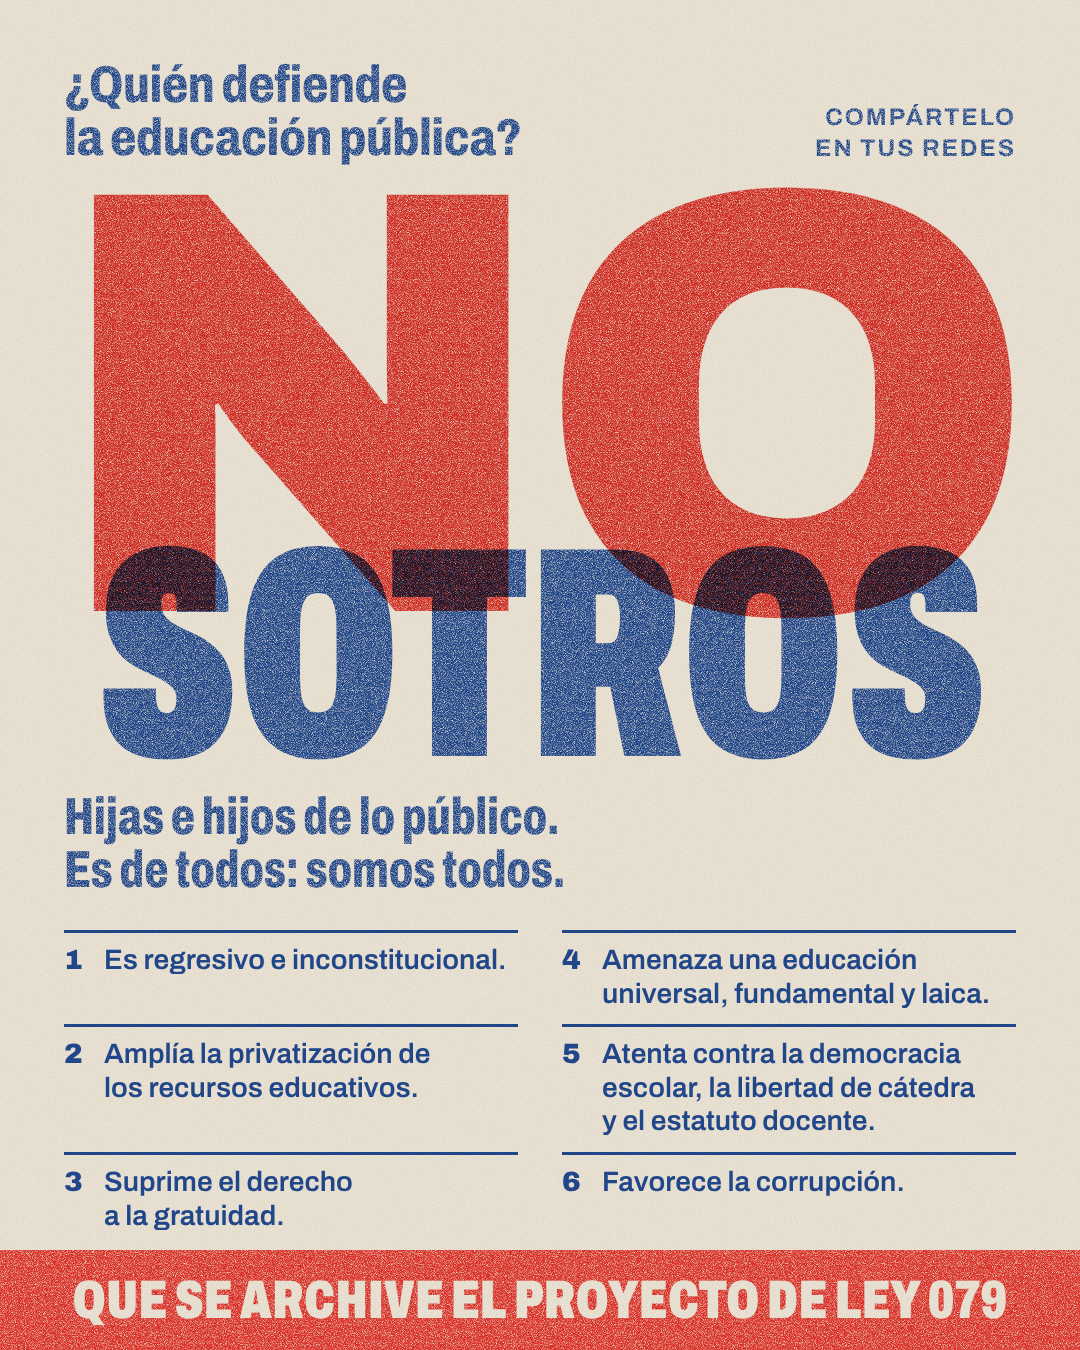
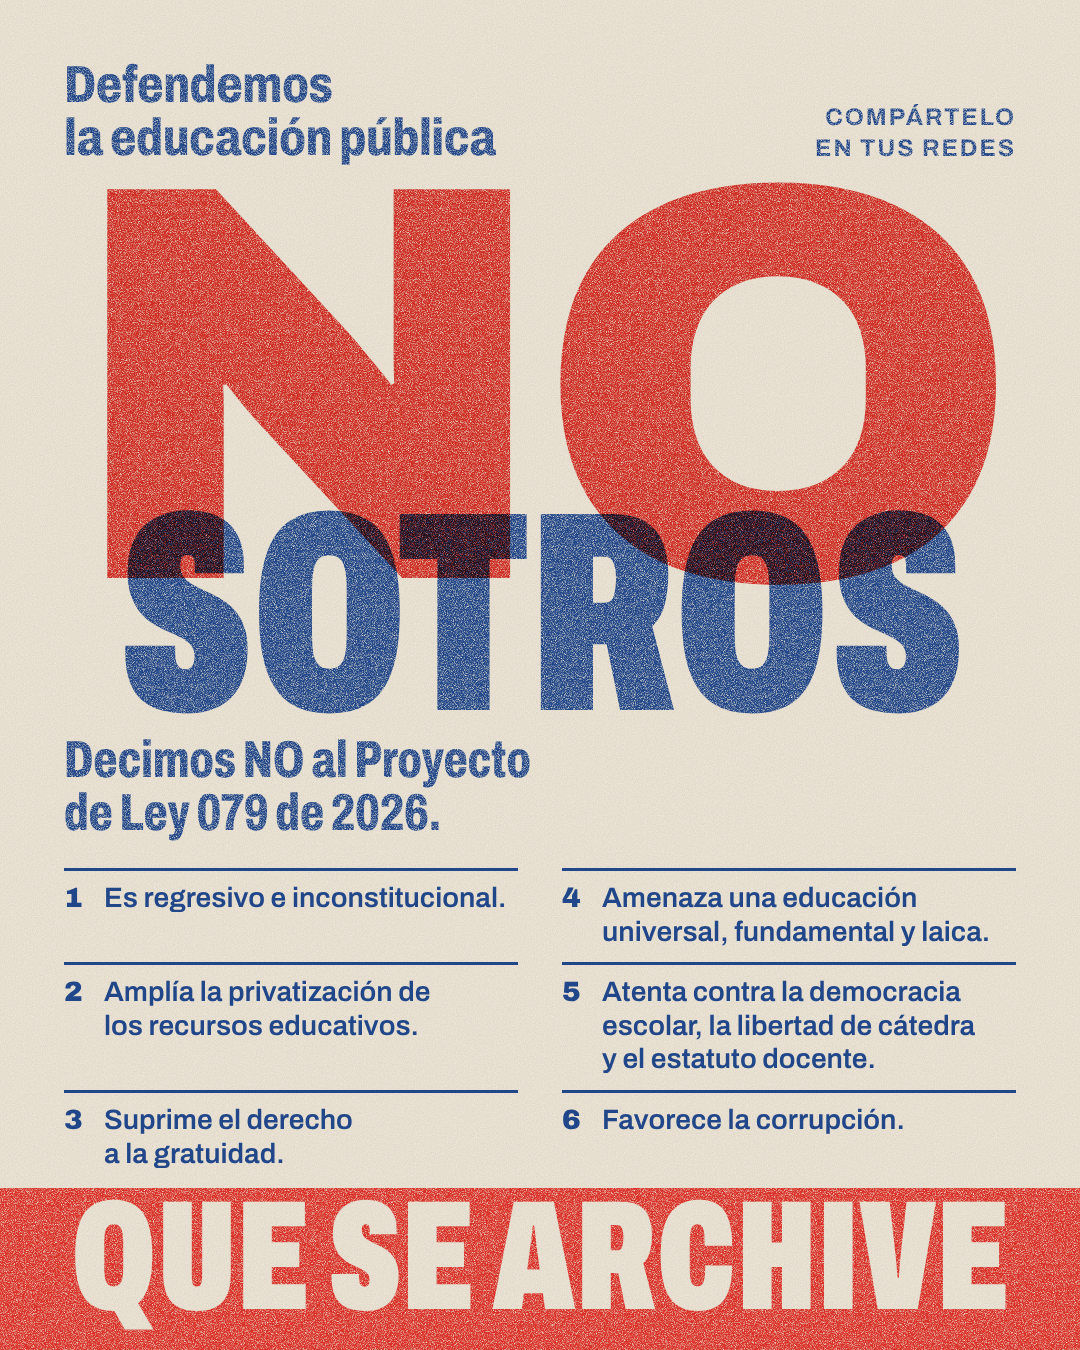
Variante NOsotros: nuevo texto superior, «Decimos NO al PL 079 de 2026» y pie «Que se archive» en grande
Claude-Session: https://claude.ai/code/session_0157Qa5e6iRtCtsbXHc6oRBj

diff --git a/pl079/v2-nosotros.html b/pl079/v2-nosotros.html
@@ -41,16 +41,16 @@
     position:absolute;left:0;width:1080px;text-align:center;white-space:nowrap;
     font-weight:900;text-transform:uppercase;line-height:1;
   }
-  .no {top:104px;font-size:605px;font-stretch:100%;letter-spacing:-.03em;transform:translate(-5px,3px)}
-  .sotros{top:506px;font-size:300px;font-stretch:62%;letter-spacing:-.005em}
+  .no {top:104px;font-size:565px;font-stretch:104%;letter-spacing:-.03em;transform:translate(-5px,3px)}
+  .sotros{top:473px;font-size:285px;font-stretch:62%;letter-spacing:-.005em}
 
   .tagline{
-    position:absolute;left:64px;right:64px;top:790px;
+    position:absolute;left:64px;right:64px;top:733px;
     font-weight:800;font-stretch:72%;font-size:52px;line-height:1.02;letter-spacing:-.005em;
   }
 
   .why{
-    position:absolute;left:64px;right:64px;top:930px;
+    position:absolute;left:64px;right:64px;top:868px;
     display:grid;grid-template-columns:1fr 1fr;column-gap:44px;row-gap:14px;
     font-size:28px;line-height:1.2;font-weight:600;
   }
@@ -59,10 +59,11 @@
   .why b{font-weight:900}
   .why-head{grid-column:1/-1;font-weight:800;font-size:28px;text-transform:uppercase;letter-spacing:.06em}
 
+  .foot span{transform:translateY(-12px)}
   .foot{
-    position:absolute;left:0;right:0;bottom:0;height:100px;background:var(--red);
+    position:absolute;left:0;right:0;bottom:0;height:162px;background:var(--red);
     display:flex;align-items:center;justify-content:center;padding:0 64px;
-    font-weight:900;font-stretch:72%;font-size:54px;text-transform:uppercase;letter-spacing:.005em;color:var(--paper);
+    font-weight:900;font-stretch:62%;font-size:156px;line-height:1;white-space:nowrap;text-transform:uppercase;letter-spacing:.005em;color:var(--paper);
   }
 </style>
 </head>
@@ -75,12 +76,12 @@
   </filter>
 </svg>
 <div class="poster">
-  <div class="kicker ink"><span>¿Quién defiende<br>la educación pública?</span><small>Compártelo<br>en tus redes</small></div>
+  <div class="kicker ink"><span>Defendemos<br>la educación pública</span><small>Compártelo<br>en tus redes</small></div>
 
   <div class="big no ink red" aria-hidden="true">NO</div>
   <div class="big sotros ink" aria-label="Nosotros">SOTROS</div>
 
-  <div class="tagline ink">Hijas e hijos de lo público.<br>Es de todos: somos todos.</div>
+  <div class="tagline ink">Decimos NO al Proyecto<br>de Ley 079 de 2026.</div>
 
   <div class="why ink-soft">
     <p><b>1</b><span>Es regresivo e inconstitucional.</span></p>
@@ -91,7 +92,7 @@
     <p><b>6</b><span>Favorece la corrupción.</span></p>
   </div>
 
-  <div class="foot" style="filter:url(#riso)"><span>Que se archive el Proyecto de Ley 079</span></div>
+  <div class="foot" style="filter:url(#riso)"><span>Que se archive</span></div>
 </div>
 </body>
 </html>
